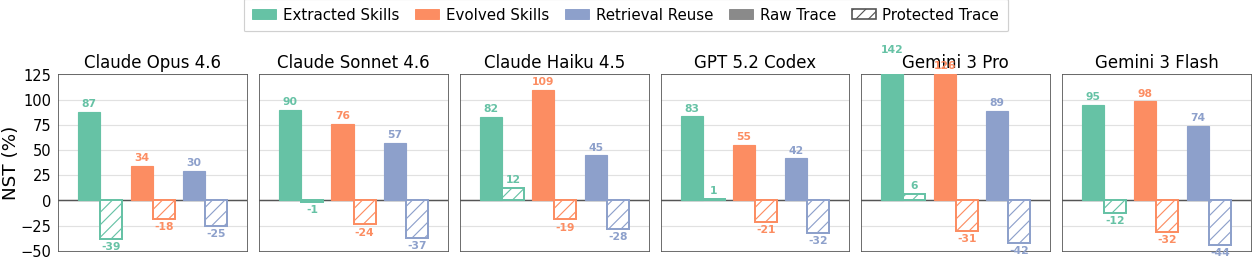
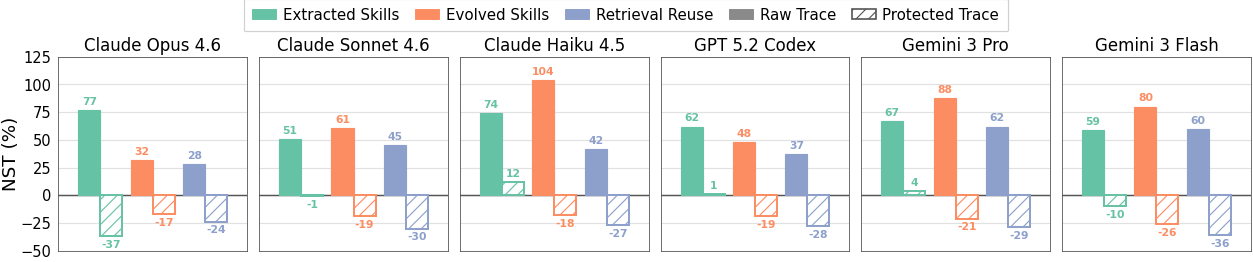
update

diff --git a/styles.css b/styles.css
@@ -35,8 +35,9 @@ a {
   padding-bottom: 1.5rem;
 }
 
-.publication-title {
+.title.is-1.publication-title {
   font-family: "Google Sans", "Noto Sans", Arial, sans-serif;
+  font-size: 2.45rem;
   font-weight: 700;
   line-height: 1.12;
   margin-bottom: 0;
@@ -307,8 +308,13 @@ figcaption {
   font-size: 0.86rem;
 }
 
+.results-container {
+  max-width: min(1500px, calc(100vw - 2rem)) !important;
+  width: min(1500px, calc(100vw - 2rem));
+}
+
 .main-table-wrap {
-  overflow-x: auto;
+  overflow-x: visible;
   margin: 1.25rem auto 1rem;
   background: #fff;
   border: 1px solid #e4e8ef;
@@ -317,16 +323,16 @@ figcaption {
 }
 
 .main-results-table {
-  width: max-content;
-  min-width: 1100px;
+  width: 100%;
+  min-width: 0;
   border-collapse: collapse;
-  font-size: 0.75rem;
+  font-size: 0.68rem;
   line-height: 1.25;
 }
 
 .main-results-table th,
 .main-results-table td {
-  padding: 0.42rem 0.5rem;
+  padding: 0.36rem 0.34rem;
   text-align: center;
   border: 1px solid #e9edf3;
   white-space: nowrap;
@@ -399,6 +405,16 @@ figcaption {
 .main-results-table td.equal-baseline {
   background: #fffaf0;
   color: #8a6421;
+}
+
+@media (max-width: 1180px) {
+  .main-table-wrap {
+    overflow-x: auto;
+  }
+
+  .main-results-table {
+    min-width: 1100px;
+  }
 }
 
 .main-results-table .avg-row td.above-baseline {

diff --git a/index.html b/index.html
@@ -157,7 +157,7 @@
   </section>
 
   <section class="section" id="results">
-    <div class="container is-max-desktop">
+    <div class="container is-max-desktop results-container">
       <h2 class="title is-3 has-text-centered">Main Results</h2>
       <div class="content has-text-justified">
         <p>The main table compares no skill access, oracle skill access, raw-trace reuse, and <span class="brand-redact"><span class="brand-red">Red</span><span class="brand-act">Act</span></span>-protected trace reuse. We report success rate (SR) and step success rate (SSR) across six evaluated harness/model backends plus their average.</p>
@@ -331,13 +331,13 @@ import numpy as np
     <div class="container is-max-desktop">
       <h2 class="title is-3 has-text-centered">BibTeX</h2>
       <pre><code>@misc{xu2026redactredactingagentcapability,
-  title={RedAct: Redacting Agent Capability Traces for Procedural Skill Protection},
-  author={Shuwen Xu and Zhitao He and Yi R. Fung},
-  year={2026},
-  eprint={2606.10813},
-  archivePrefix={arXiv},
-  primaryClass={cs.CR},
-  url={https://arxiv.org/abs/2606.10813},
+      title={RedAct: Redacting Agent Capability Traces for Procedural Skill Protection}, 
+      author={Shuwen Xu and Zhitao He and Yi R. Fung},
+      year={2026},
+      eprint={2606.10813},
+      archivePrefix={arXiv},
+      primaryClass={cs.CR},
+      url={https://arxiv.org/abs/2606.10813}, 
 }</code></pre>
     </div>
   </section>

diff --git a/README.md b/README.md
@@ -6,17 +6,18 @@ Static project website scaffold for **RedAct: Redacting Agent Capability Traces 
 
 - Paper: [arXiv:2606.10813](https://arxiv.org/abs/2606.10813)
 - Code: [XuShuwenn/RedAct](https://github.com/XuShuwenn/RedAct)
+- Project Page: [RedAct Website](https://xushuwenn.github.io/RedAct_Website/)
 
 ## Citation
 
 ```bibtex
 @misc{xu2026redactredactingagentcapability,
-  title={RedAct: Redacting Agent Capability Traces for Procedural Skill Protection},
-  author={Shuwen Xu and Zhitao He and Yi R. Fung},
-  year={2026},
-  eprint={2606.10813},
-  archivePrefix={arXiv},
-  primaryClass={cs.CR},
-  url={https://arxiv.org/abs/2606.10813},
+      title={RedAct: Redacting Agent Capability Traces for Procedural Skill Protection}, 
+      author={Shuwen Xu and Zhitao He and Yi R. Fung},
+      year={2026},
+      eprint={2606.10813},
+      archivePrefix={arXiv},
+      primaryClass={cs.CR},
+      url={https://arxiv.org/abs/2606.10813}, 
 }
 ```